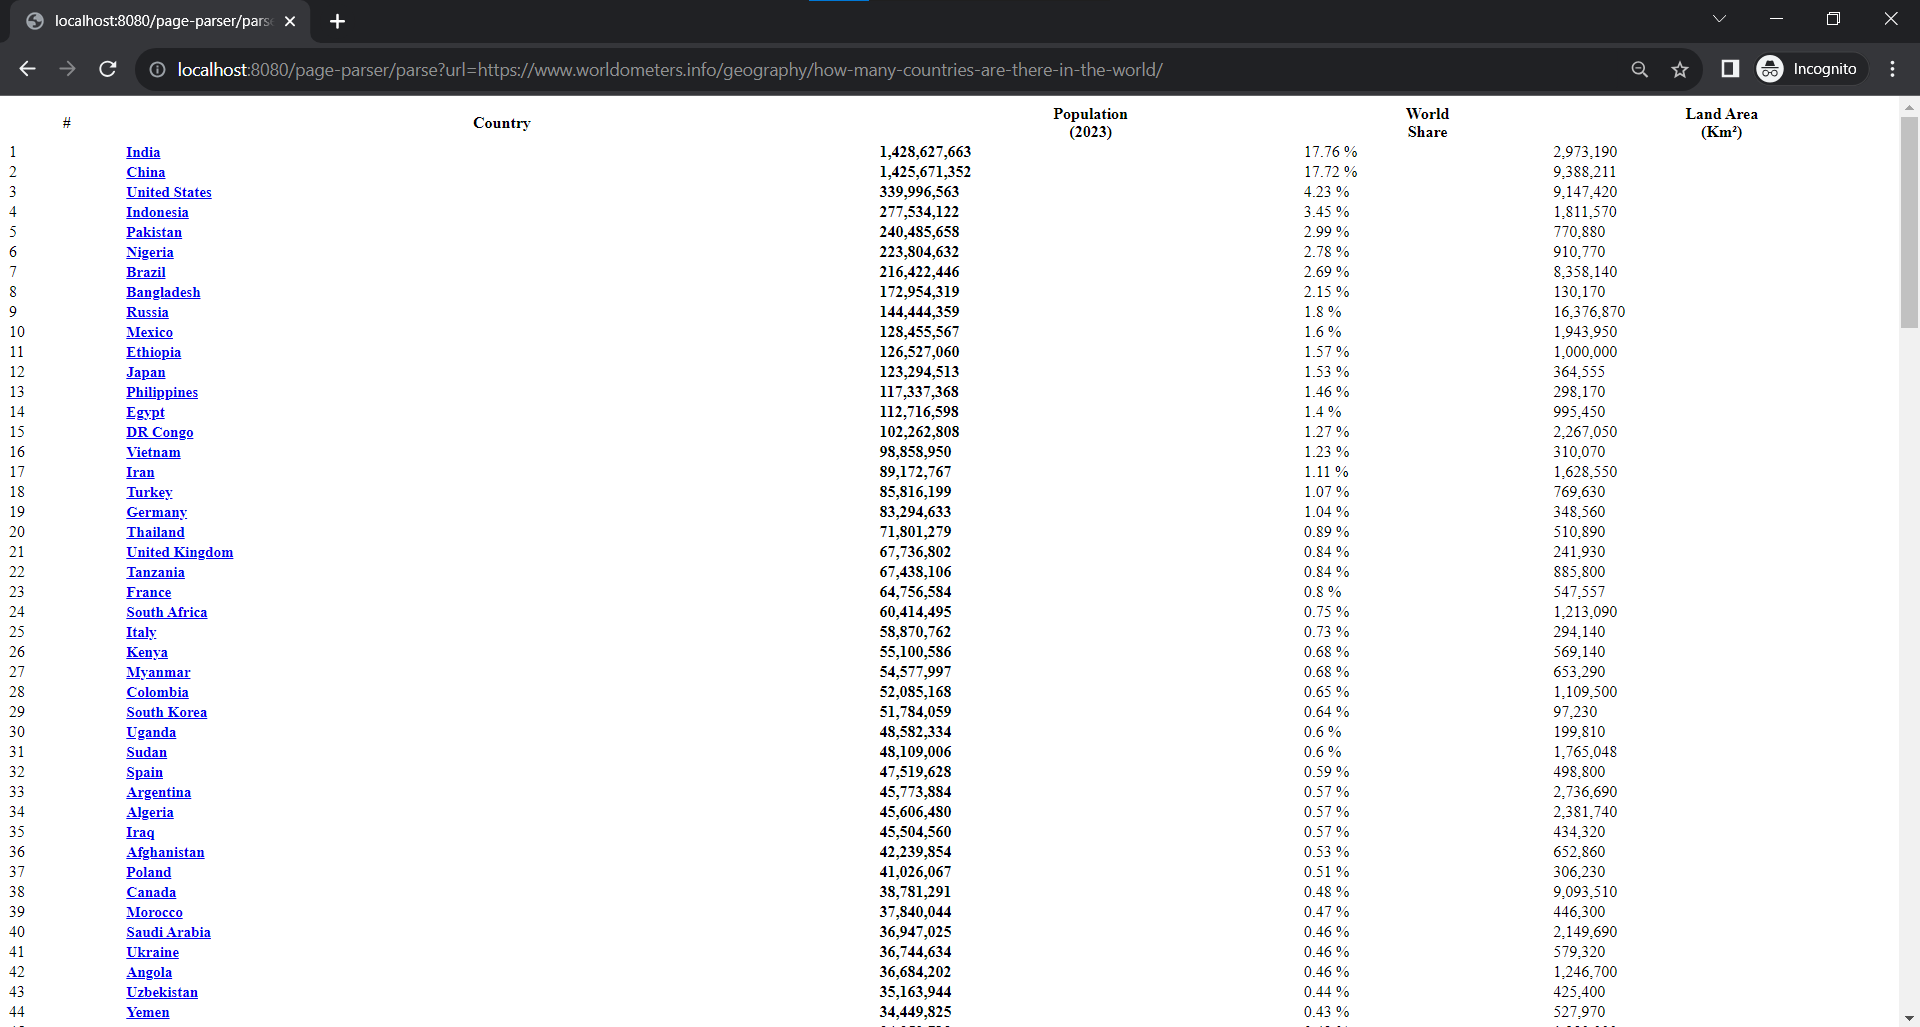
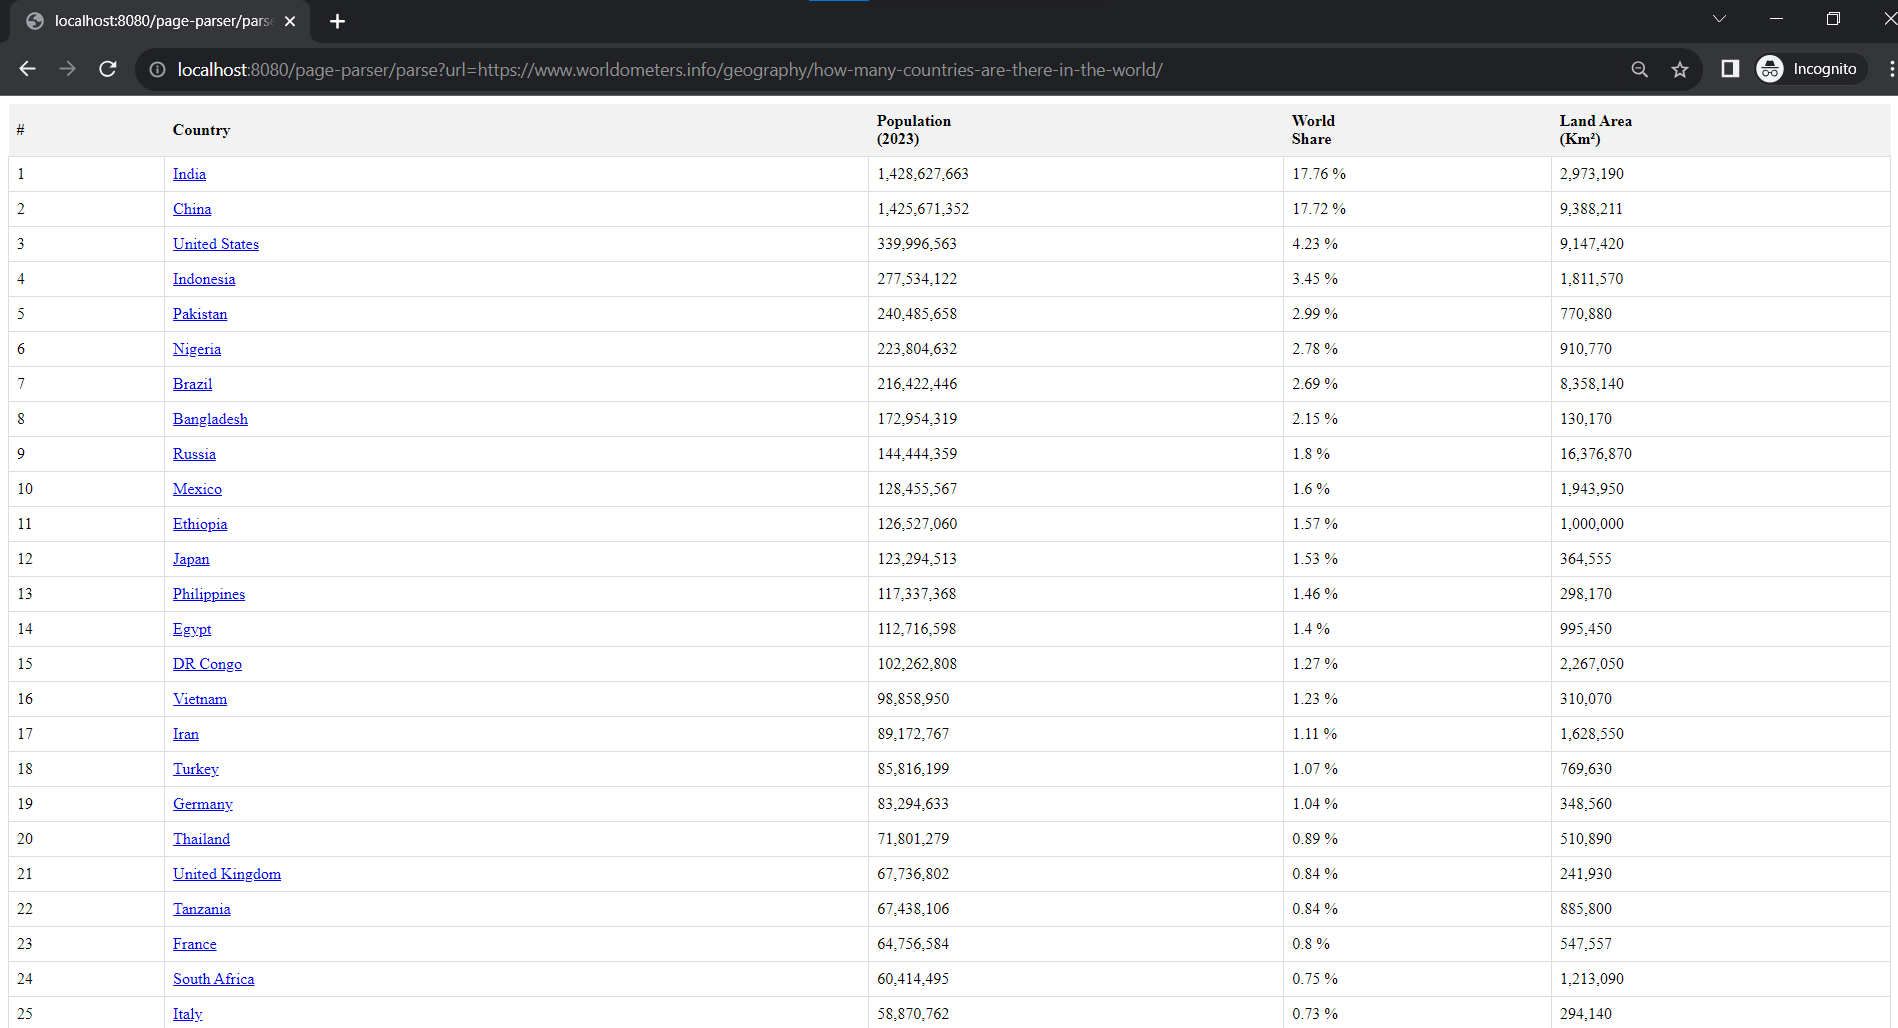
use jsoup lib instead of regex

diff --git a/src/main/java/com/aliezkan/pageparser/service/PageParserService.java b/src/main/java/com/aliezkan/pageparser/service/PageParserService.java
@@ -4,12 +4,13 @@ import com.aliezkan.pageparser.exception.TableNotFoundException;
 import lombok.NonNull;
 import lombok.RequiredArgsConstructor;
 import org.apache.commons.lang3.StringUtils;
+import org.jsoup.Jsoup;
+import org.jsoup.nodes.Document;
+import org.jsoup.nodes.Element;
+import org.jsoup.select.Elements;
 import org.springframework.stereotype.Service;
 import org.springframework.validation.annotation.Validated;
 import reactor.core.publisher.Mono;
-
-import java.util.regex.Matcher;
-import java.util.regex.Pattern;
 
 @Service
 @RequiredArgsConstructor
@@ -17,16 +18,34 @@ import java.util.regex.Pattern;
 public class PageParserService {
 
     private final HtmlFetchService htmlFetchService;
-    private static final Pattern TABLE_PATTERN = Pattern.compile("<table[^>]*>(.*?)</table>", Pattern.CASE_INSENSITIVE | Pattern.DOTALL);
-
     public Mono<String> parse(@NonNull String url) {
         return htmlFetchService.fetchHtml(url)
-                .map(html -> {
-                    Matcher matcher = TABLE_PATTERN.matcher(html);
-                    return matcher.find() ? matcher.group(0) : "";
-                })
+                .map(this::getTableFromHtml)
+                .map(this::formatTableWithStyles)
                 .filter(StringUtils::isNotBlank)
                 .switchIfEmpty(Mono.error(new TableNotFoundException()))
                 .cache();
+    }
+
+    private Elements getTableFromHtml(String html) {
+        Document document = Jsoup.parse(html);
+        return document.select("table");
+    }
+
+    private String formatTableWithStyles(Elements tableElements) {
+        if (tableElements.size() > 0) {
+            Element table = tableElements.get(0);
+
+            table.attr("class", "beautiful-table");
+            table.attr("style", "border-collapse: collapse; width: 100%;");
+
+            Elements tableHeaders = table.select("th");
+            Elements tableCells = table.select("td");
+
+            tableHeaders.attr("style", "background-color: #f2f2f2; padding: 8px; text-align: left;");
+            tableCells.attr("style", "border: 1px solid #ddd; padding: 8px; text-align: left;");
+        }
+
+        return tableElements.toString();
     }
 }
